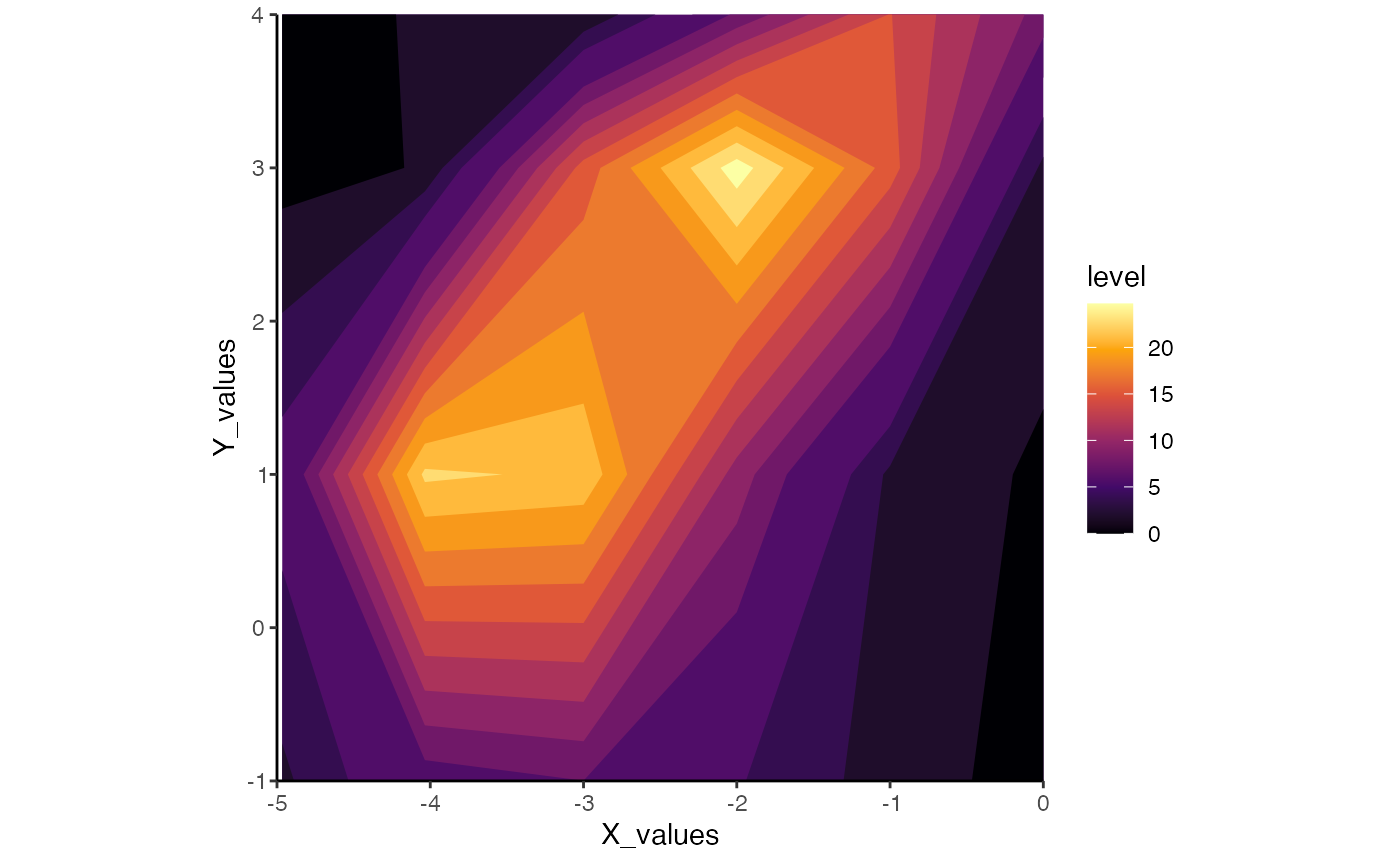
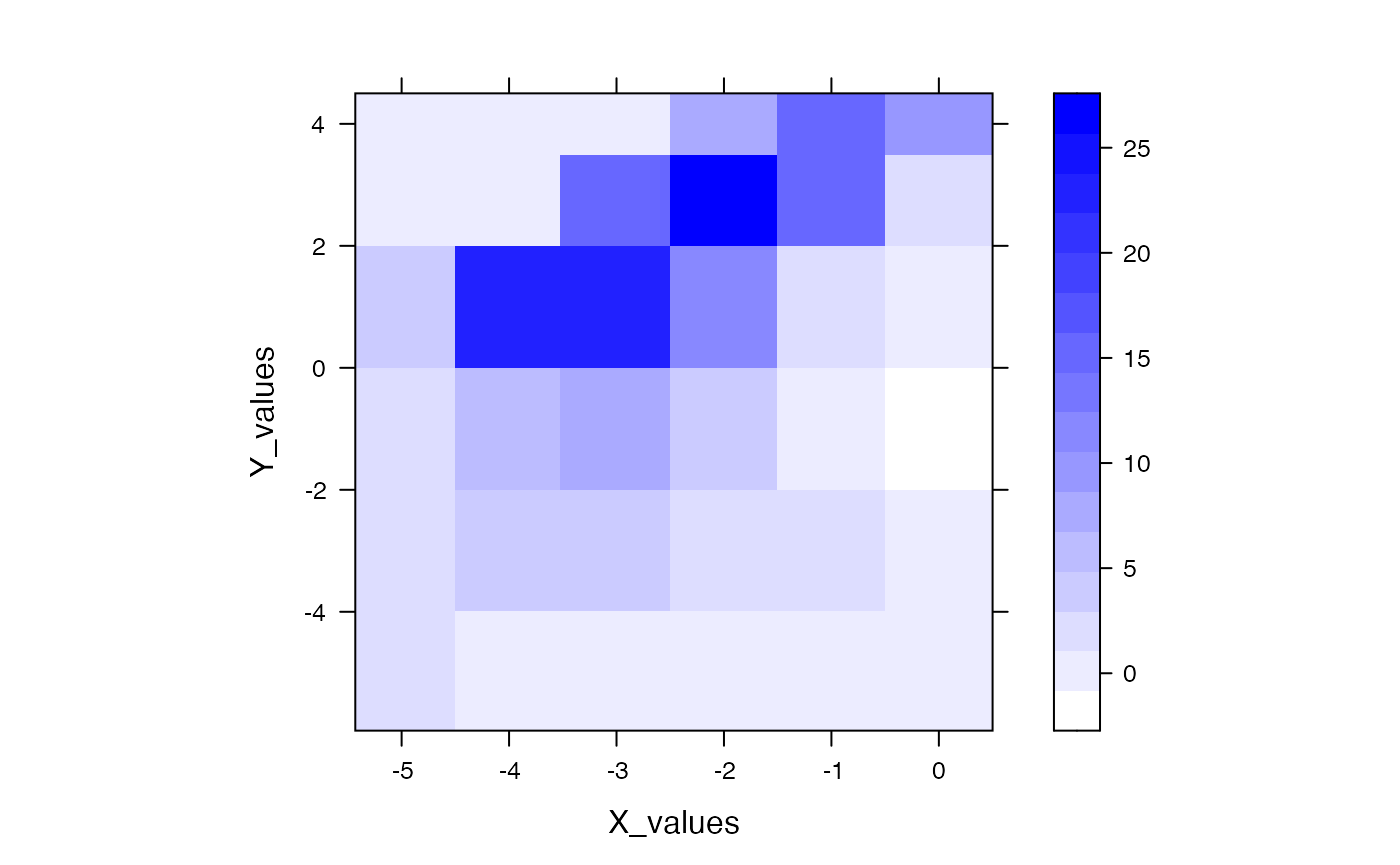
address plotting issue in vignette

diff --git a/docs/articles/fit_gaussian_2D.html b/docs/articles/fit_gaussian_2D.html
@@ -102,6 +102,8 @@
 <p>We’ll begin by loading <code>gaussplotR</code> and loading the sample data set provided within. The raw data we’d like to use are in columns 1:3, so we’ll shave the data set down to those columns before running through the examples.</p>
 <div class="sourceCode" id="cb1"><pre class="downlit">
 <span class="kw"><a href="https://rdrr.io/r/base/library.html">library</a></span><span class="op">(</span><span class="va"><a href="https://github.com/vbaliga/gaussplotR">gaussplotR</a></span><span class="op">)</span>
+<span class="co">## We'll also use lattice, ggplot2 and metR</span>
+<span class="kw"><a href="https://rdrr.io/r/base/library.html">library</a></span><span class="op">(</span><span class="va"><a href="http://lattice.r-forge.r-project.org/">lattice</a></span><span class="op">)</span>; <span class="kw"><a href="https://rdrr.io/r/base/library.html">library</a></span><span class="op">(</span><span class="va"><a href="http://ggplot2.tidyverse.org">ggplot2</a></span><span class="op">)</span>; <span class="kw"><a href="https://rdrr.io/r/base/library.html">library</a></span><span class="op">(</span><span class="va"><a href="https://github.com/eliocamp/metR">metR</a></span><span class="op">)</span>
 
 <span class="co">## Load the sample data set</span>
 <span class="fu"><a href="https://rdrr.io/r/utils/data.html">data</a></span><span class="op">(</span><span class="va">gaussplot_sample_data</span><span class="op">)</span>
@@ -111,20 +113,14 @@
   <span class="va">gaussplot_sample_data</span><span class="op">[</span>,<span class="fl">1</span><span class="op">:</span><span class="fl">3</span><span class="op">]</span></pre></div>
 <p>It generally helps to plot the data beforehand to get a sense of its overall shape. We’ll simply produce a contour plot.</p>
 <div class="sourceCode" id="cb2"><pre class="downlit">
-<span class="kw"><a href="https://rdrr.io/r/base/library.html">library</a></span><span class="op">(</span><span class="va"><a href="http://ggplot2.tidyverse.org">ggplot2</a></span><span class="op">)</span>; <span class="kw"><a href="https://rdrr.io/r/base/library.html">library</a></span><span class="op">(</span><span class="va"><a href="https://github.com/eliocamp/metR">metR</a></span><span class="op">)</span>
-
-<span class="fu">ggplot2</span><span class="fu">::</span><span class="fu"><a href="https://ggplot2.tidyverse.org/reference/ggplot.html">ggplot</a></span><span class="op">(</span><span class="va">samp_dat</span>, <span class="fu"><a href="https://ggplot2.tidyverse.org/reference/aes.html">aes</a></span><span class="op">(</span><span class="va">X_values</span>, <span class="va">Y_values</span>, z <span class="op">=</span> <span class="va">response</span><span class="op">)</span><span class="op">)</span> <span class="op">+</span>
-  <span class="fu">metR</span><span class="fu">::</span><span class="fu"><a href="https://rdrr.io/pkg/metR/man/geom_contour_fill.html">geom_contour_fill</a></span><span class="op">(</span><span class="fu"><a href="https://ggplot2.tidyverse.org/reference/aes.html">aes</a></span><span class="op">(</span>fill <span class="op">=</span> <span class="va">..level..</span><span class="op">)</span>,
-                          size <span class="op">=</span> <span class="fl">0.04</span>,
-                          bins <span class="op">=</span> <span class="fl">14</span><span class="op">)</span> <span class="op">+</span>
-  <span class="fu"><a href="https://ggplot2.tidyverse.org/reference/scale_viridis.html">scale_fill_viridis_c</a></span><span class="op">(</span>direction <span class="op">=</span> <span class="fl">1</span>,
-                       option <span class="op">=</span> <span class="st">"B"</span><span class="op">)</span> <span class="op">+</span>
-  <span class="fu"><a href="https://ggplot2.tidyverse.org/reference/coord_fixed.html">coord_fixed</a></span><span class="op">(</span>
-    xlim <span class="op">=</span> <span class="fu"><a href="https://rdrr.io/r/base/c.html">c</a></span><span class="op">(</span><span class="op">-</span><span class="fl">5</span>, <span class="fl">0</span><span class="op">)</span>,
-    ylim <span class="op">=</span> <span class="fu"><a href="https://rdrr.io/r/base/c.html">c</a></span><span class="op">(</span><span class="op">-</span><span class="fl">1</span>, <span class="fl">4</span><span class="op">)</span>, 
-    expand <span class="op">=</span> <span class="cn">FALSE</span>
-  <span class="op">)</span> <span class="op">+</span>
-  <span class="fu"><a href="https://ggplot2.tidyverse.org/reference/ggtheme.html">theme_classic</a></span><span class="op">(</span><span class="op">)</span></pre></div>
+<span class="fu">lattice</span><span class="fu">::</span><span class="fu"><a href="https://rdrr.io/pkg/lattice/man/levelplot.html">levelplot</a></span><span class="op">(</span>
+  <span class="va">response</span> <span class="op">~</span> <span class="va">X_values</span> <span class="op">*</span> <span class="va">Y_values</span>,
+  data <span class="op">=</span> <span class="va">samp_dat</span>,
+  col.regions <span class="op">=</span> <span class="fu"><a href="https://rdrr.io/r/grDevices/colorRamp.html">colorRampPalette</a></span><span class="op">(</span>
+    <span class="fu"><a href="https://rdrr.io/r/base/c.html">c</a></span><span class="op">(</span><span class="st">"white"</span>, <span class="st">"blue"</span><span class="op">)</span>
+    <span class="op">)</span><span class="op">(</span><span class="fl">100</span><span class="op">)</span>,
+  asp <span class="op">=</span> <span class="fl">1</span>
+<span class="op">)</span></pre></div>
 <p><img src="fit_gaussian_2D_files/figure-html/raw_data_contour-1.png" width="700"></p>
 </div>
 <div id="the-method-and-orientation_strategy-arguments" class="section level2">

diff --git a/docs/reference/fit_gaussian_2D.html b/docs/reference/fit_gaussian_2D.html
@@ -155,9 +155,9 @@ gridded data, but this is not a strict requirement). Columns must be named
     </tr>
     <tr>
       <th>method</th>
-      <td><p>Choice of <code>"circular"</code>, <code>"elliptical"</code>, or
-<code>"elliptical_log"</code>. Determine which specific implementation of 2D
-Gaussian to use. See Details for more.</p></td>
+      <td><p>Choice of <code>"elliptical"</code>, <code>"elliptical_log"</code>, or
+<code>"circular"</code>. Determine which specific implementation of 2D Gaussian
+to use. See Details for more.</p></td>
     </tr>
     <tr>
       <th>orientation_strategy</th>
@@ -233,10 +233,10 @@ Gaussian to the specified value. Note that this is handled differently by
 <code>method = "elliptical"</code>, the theta parameter dictates the rotation, in
 radians, from the x-axis in the clockwise direction. In contrast, the
 <code>method = "elliptical_log"</code> procedure uses a Q parameter to determine
-the orientation of the 2D Gaussian. Setting <code>Q_strategy = 0</code> will result
-in a diagonally-oriented Gaussian, whereas setting <code>Q_strategy = -1</code>
-will result in horizontal orientation. See Priebe et al. 2003 for more
-details.</p>
+the orientation of the 2D Gaussian. Setting <code>orientation_strategy = 0</code>
+will result in a diagonally-oriented Gaussian, whereas setting
+<code>orientation_strategy = -1</code> will result in horizontal orientation. See
+Priebe et al. 2003 for more details.</p>
 <p>The <code>user_init</code> argument can also be used to supply a
 vector of initial values for the A, Q, X_peak, Y_peak, X_var, and Y_var
 parameters. If the user chooses to make use of <code>user_init</code>, then a
